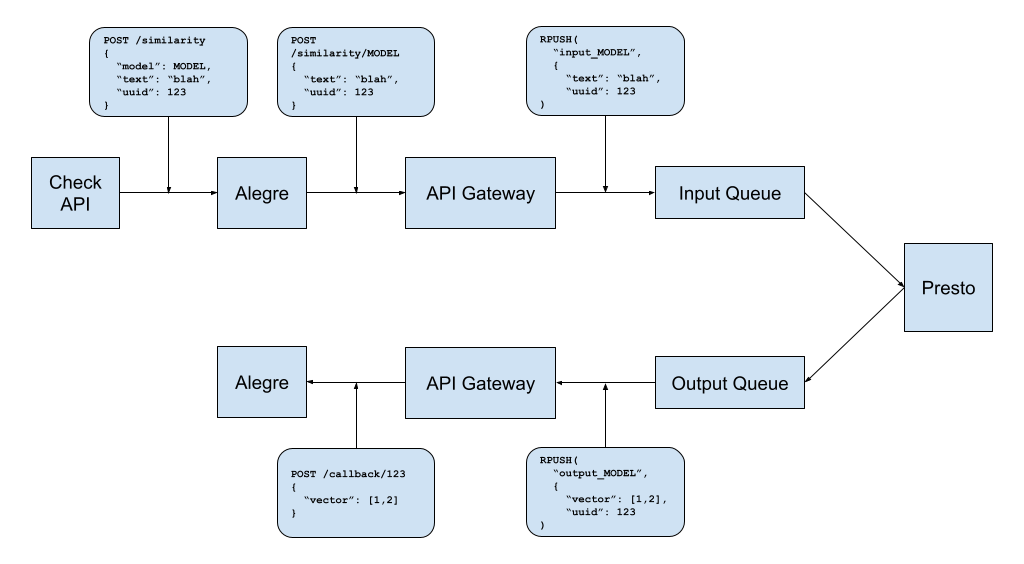
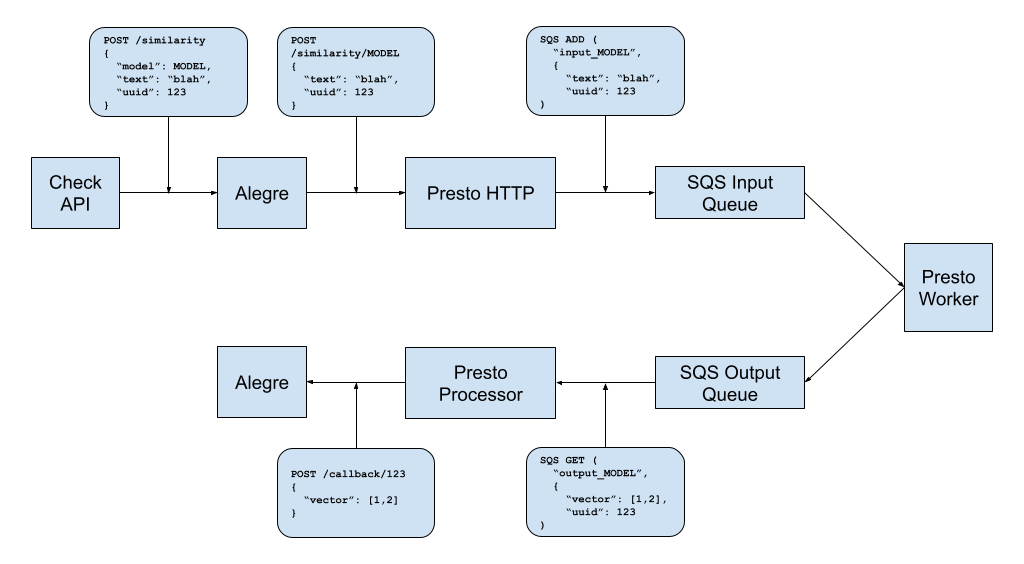
Updates to documentation (#139)
* updates to documentation

* repin fingerprint, presumably some minor change

* update diagrams per review

diff --git a/test/lib/model/test_image.py b/test/lib/model/test_image.py
@@ -16,7 +16,7 @@ class TestModel(unittest.TestCase):
         mock_hasher_instance = mock_pdq_hasher.return_value
         mock_hasher_instance.fromBufferedImage.return_value.getHash.return_value.dumpBitsFlat.return_value = '1001'
         result = Model().compute_pdq(io.BytesIO(image_content))
-        self.assertEqual(result, '0011100000111011010110100001001110001011110100100010101011010111010110101010000111001010111000001010111111110000000101110010000011111110111110100100011111010010110110101111101100111001000000010010100101010111110001001101101011000110001000001110010000111100')
+        self.assertEqual(result, '0001110000111110101111100001110001110100001111100001011000111100101101100001000000010010101110110111110000010110010110001011111011101001100100101000101111000001000000111110100110100011110000011111111010010100010001001011111011110110100101001110011101000100')
 
     @patch("urllib.request.urlopen")
     def test_get_iobytes_for_image(self, mock_urlopen):

diff --git a/README.md b/README.md
@@ -22,15 +22,25 @@ Depending on your environment, and if you are using Docker directly or not, thes
 #### Architecture
 ![Architecture Diagram](img/presto_architectural_diagram.png?raw=true "Architecture Diagram")
 
+[Source](https://docs.google.com/drawings/d/1ZWiUwMfMDdJprloUZEYm9GxUUisxmOXotdlX_aRprp8/edit)
+
 #### Execution Flowchart
 ![Architecture Flowchart](img/presto_flowchart.png?raw=true "Architecture Flowchart")
+
+[Source](https://docs.google.com/drawings/d/1_UEb8k5wZUSJ3Jnz_G-hDVh5xpkBjGrN6Mn--RVhVMY/edit)
 
 #### External Services Flowchart
 ![External Architectural Flowchart](img/presto_flowchart_external.png?raw=true "External Architecture Flowchart")
 
+[Source](https://docs.google.com/drawings/d/1lsNS68YsGUMT1YBKQrpqZq1o3XPsZ1BWNIXlLv7-u78/edit)
+
+#### Swimlane Chart
+![Swimlane Diagram](img/presto_swimlane.png?raw=true "Swimlane Diagram")
+
+[Source](https://docs.google.com/drawings/d/1EqgLmbXJgk-DJrfEJwpT4WIduv-L3EWDRFpvUJAOxWA/edit)
 
 ### Setup
-To run the project, you can use the provided `Dockerfile`, or start via `docker-compose build && docker-compose up`. This file sets up the environment by installing the required dependencies and running the `run.py` file when the container is started. To build and run the Docker image from the Dockerfile directly, run the following commands:
+To run the project, you can use the provided `Dockerfile`, or start via `docker compose build && docker compose up`. This file sets up the environment by installing the required dependencies and running the `run.py` file when the container is started. To build and run the Docker image from the Dockerfile directly, run the following commands:
 
 ```
 docker build -t text-vectorization .
@@ -41,6 +51,12 @@ Here, we require at least one environment variable - `model_name`. If left unspe
 
 Currently supported `model_name` values are just module names keyed from the `model` directory, and currently are as follows:
 
+* `classycat.Model` - ClassyCat Parent Model
+* `classycat_classify.Model` - ClassyCat Text Classifier
+* `classycat_schema_create.Model` - ClassyCat Schema Creation
+* `classycat_schema_lookup.Model` - ClassyCat Schema Lookup
+* `fasttext.Model` - fasttext Language Model
+* `yake_keywords.Model` - YAKE Keyword Extractor
 * `fptg.Model` - text model, uses `meedan/paraphrase-filipino-mpnet-base-v2`
 * `indian_sbert.Model` - text model, uses `meedan/indian-sbert`
 * `mean_tokens.Model` - text model, uses `xlm-r-bert-base-nli-stsb-mean-tokens`
@@ -49,17 +65,20 @@ Currently supported `model_name` values are just module names keyed from the `mo
 * `audio.Model` - audio model
 
 ### Makefile
-The Makefile contains four targets, `run`, `run_http`, `run_worker`, and `run_test`. `run` runs the `run.py` file when executed - if `RUN_MODE` is set to `http`, it will run the `run_http` command, else it will `run_worker`. Alternatively, you can call `run_http` or `run_worker` directly. Remember to have the environment variables described above defined. `run_test` runs the test suite which is expected to be passing currently - reach out if it fails on your hardware!
+The Makefile contains five targets, `run`, `run_http`, `run_worker`, `run_processor`, and `run_test`. `run` runs the `run.py` file when executed - if `RUN_MODE` is set to `http`, it will run the `run_http` command, else it will `run_worker` as well as a `run_processor`. Alternatively, you can call `run_http`, `run_processor`, or `run_worker` directly. Remember to have the environment variables described above defined. `run_test` runs the test suite which is expected to be passing currently - reach out if it fails on your hardware!
 
-### run.py
-The `run.py` file is the main routine that runs the vectorization process. It sets up the queue and model instances, receives messages from the queue, applies the model to the messages, responds to the queue with the vectorized text, and deletes the original messages in a loop within the `queue.process_messages` function. The `os.environ` statements retrieve environment variables to create the queue and model instances.
+### run_worker.py
+The `run_worker.py` file is the main routine that runs the fingerprinting process. It sets up the queue and model instances, receives messages from the queue, applies the model to the messages, responds to the queue with the vectorized text, and deletes the original messages in a loop within the `queue.process_messages` function. The `os.environ` statements retrieve environment variables to create the queue and model instances.
+
+### run_processor.py
+The `run_processor.py` file is a simple script that listens to output queues and sends callbacks to original requestors via HTTP.
 
 ### main.py
 The `main.py` file is the HTTP server. We use FastAPI and provide two endpoints, which are described lower in this document. The goal of this HTTP server is to add items into a queue, and take messages from a queue and use them to fire HTTP call backs with the queue body to external services.
 
 ### Queues
 
-Presto is able to `process_messages` via ElasticMQ or SQS. In practice, we use ElasticMQ for local development, and SQS for production environments. When interacting with a `queue`, we use the generic superclass `queue`. `queue.fingerprint` takes as an argument a `model` instance. The `fingerprint` routine collects a batch of `BATCH_SIZE` messages appropriate to the `BATCH_SIZE` for the `model` specified. Once pulled from the `input_queue`, those messages are processed via `model.respond`. The resulting fingerprint outputs from the model are then zipped with the original message pulled from the `input_queue`, and a message is placed onto the `output_queue` that consists of exactly: `{"request": message, "response": response}`.
+Presto is able to `process_messages` via ElasticMQ or SQS. In practice, we use ElasticMQ for local development, and SQS for production environments. When interacting with a `queue`, we use the generic superclass `queue`. `queue.fingerprint` takes as an argument a `model` instance. The `fingerprint` routine collects a batch of `BATCH_SIZE` messages appropriate to the `BATCH_SIZE` for the `model` specified. Once pulled from the `input_queue`, those messages are processed via `model.respond`. The resulting fingerprint outputs from the model are then packed with the original message pulled from the `input_queue`, and a message is placed onto the `output_queue` that consists of exactly: `{"request": message, "response": response}`.
 
 ### Models
 
